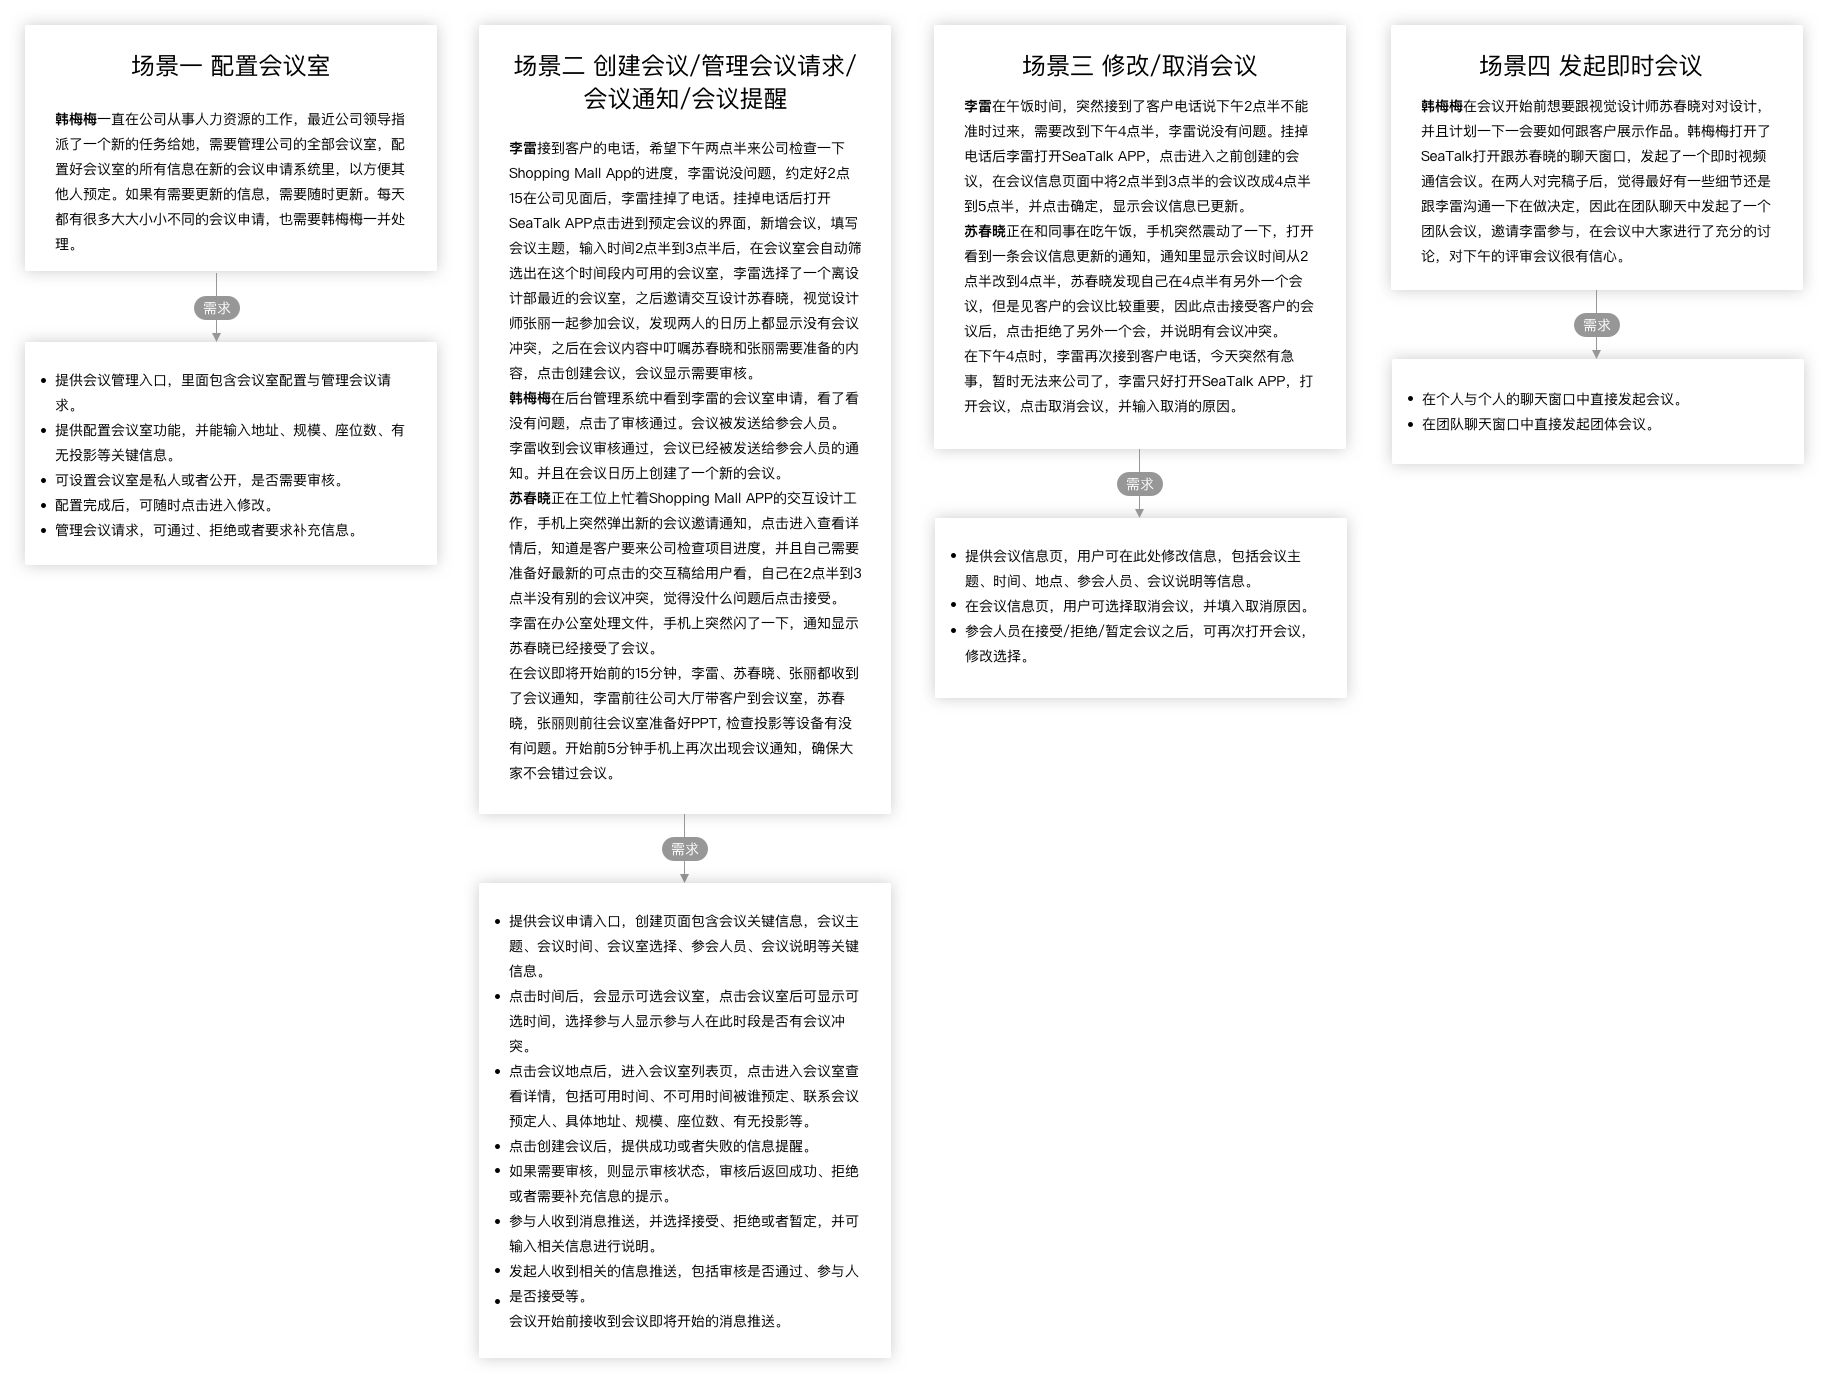
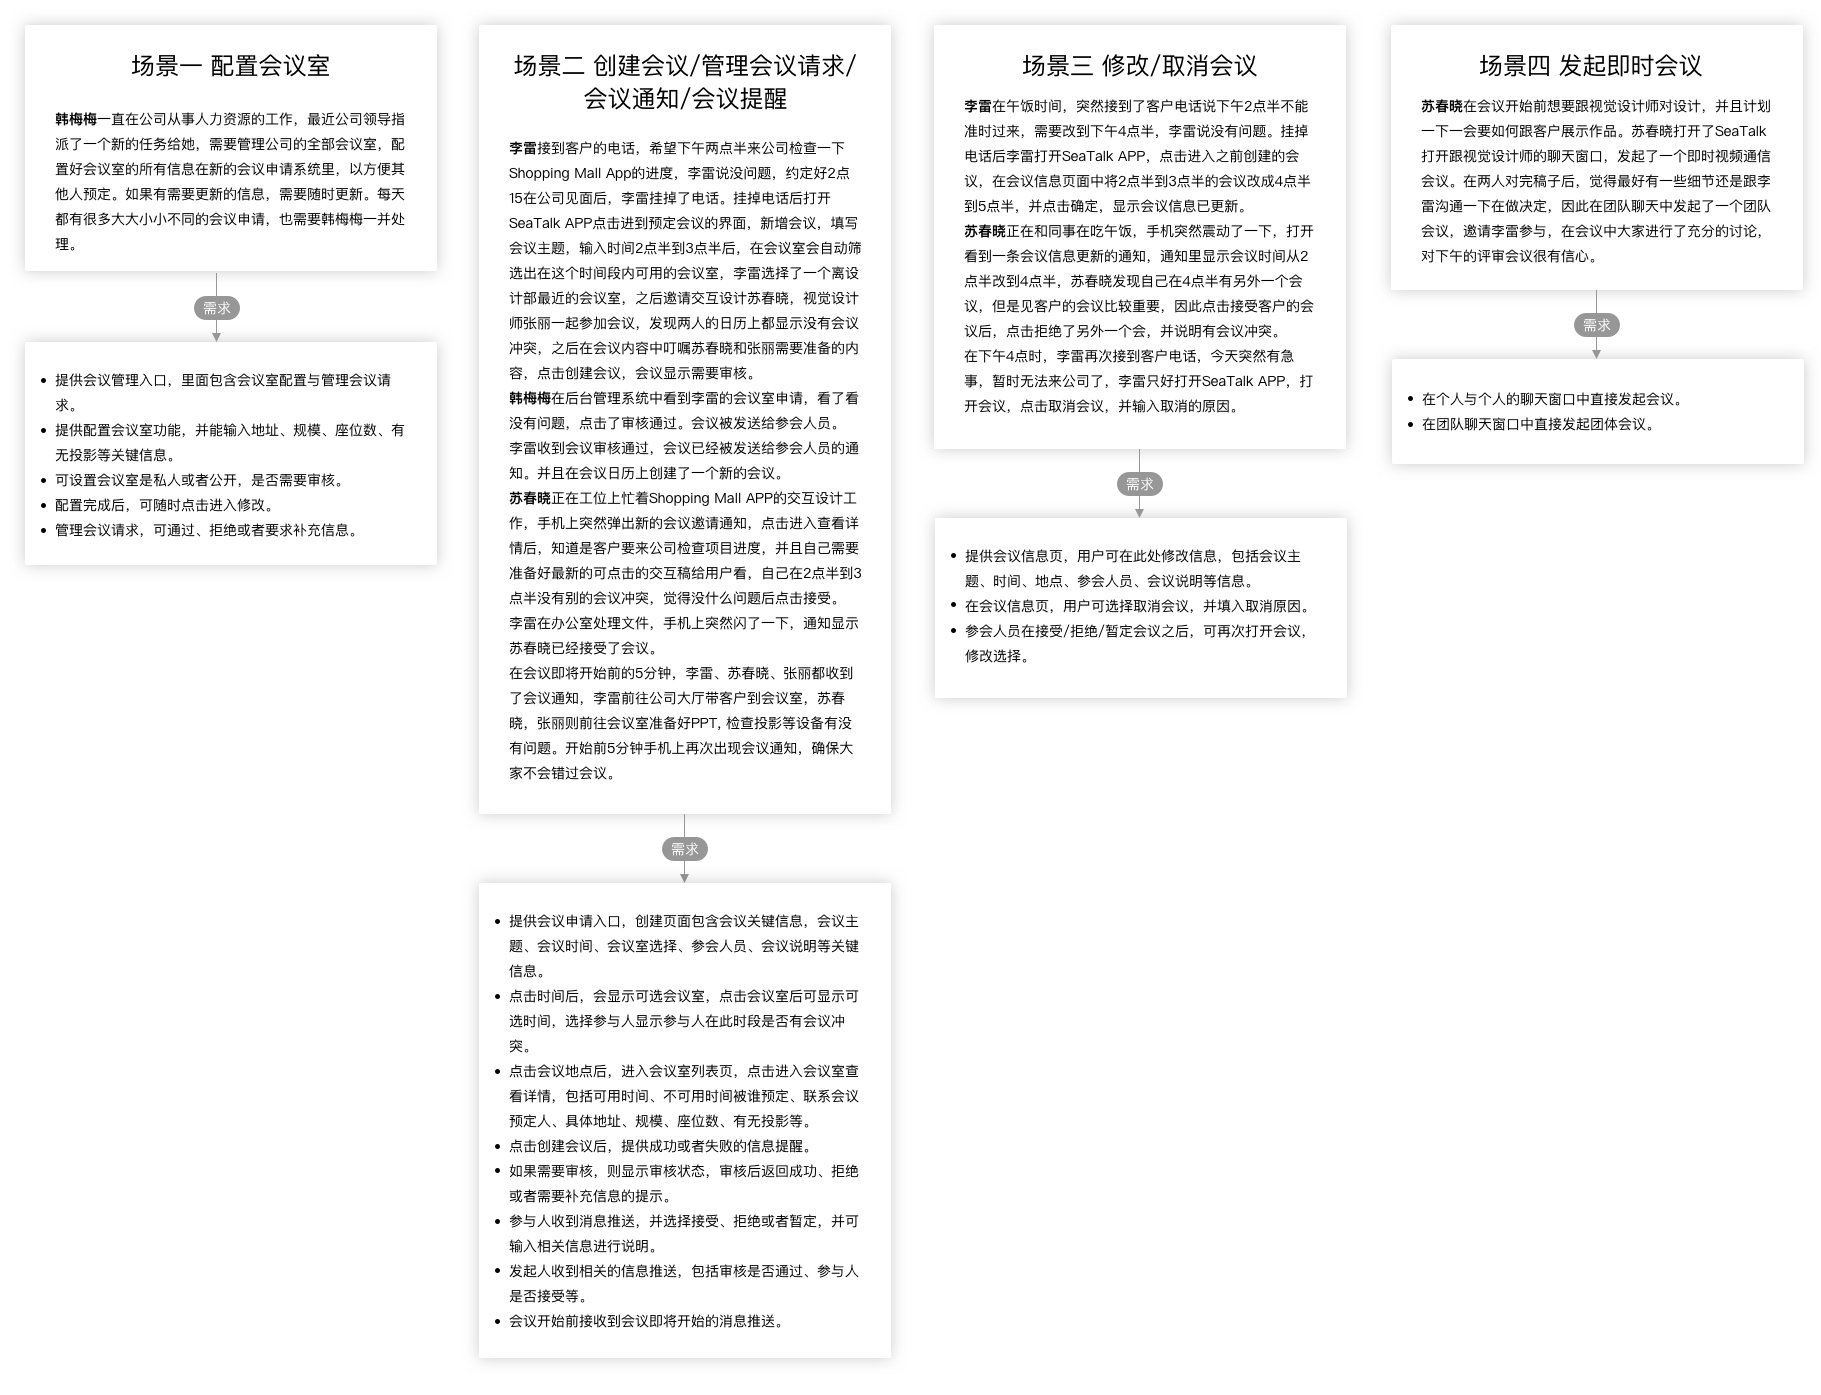
New info

Changed region(s): [[0.7688, 0.0616, 0.9841, 0.1849], [0.3383, 0.4624, 0.4613, 0.4932]]

diff --git a/portfolio/Seatalk.html b/portfolio/Seatalk.html
@@ -121,7 +121,7 @@
 				<p class="bold">描绘流程总结问题与机会点</p>
 				<p class="">将三个角色如何参与到整个会议流程描绘出来，从最初的配置会议室到最终参加会议。思考在流程中每个角色是如何参与到整个流程中，在每个流程中遇到了什么样的问题，设计机会点是什么。</p>
 				<div class="para-sm"></div>
-				<img src="../pic/SeaTalk/User Journey Map final.png" width="100%" alt="User journey map">
+				<img src="../pic/SeaTalk/User Journey Map new one final.png" width="100%" alt="User journey map">
 				<div class="para"></div>
 				<div class="para"></div>
 				<!-- 1.5 -->
